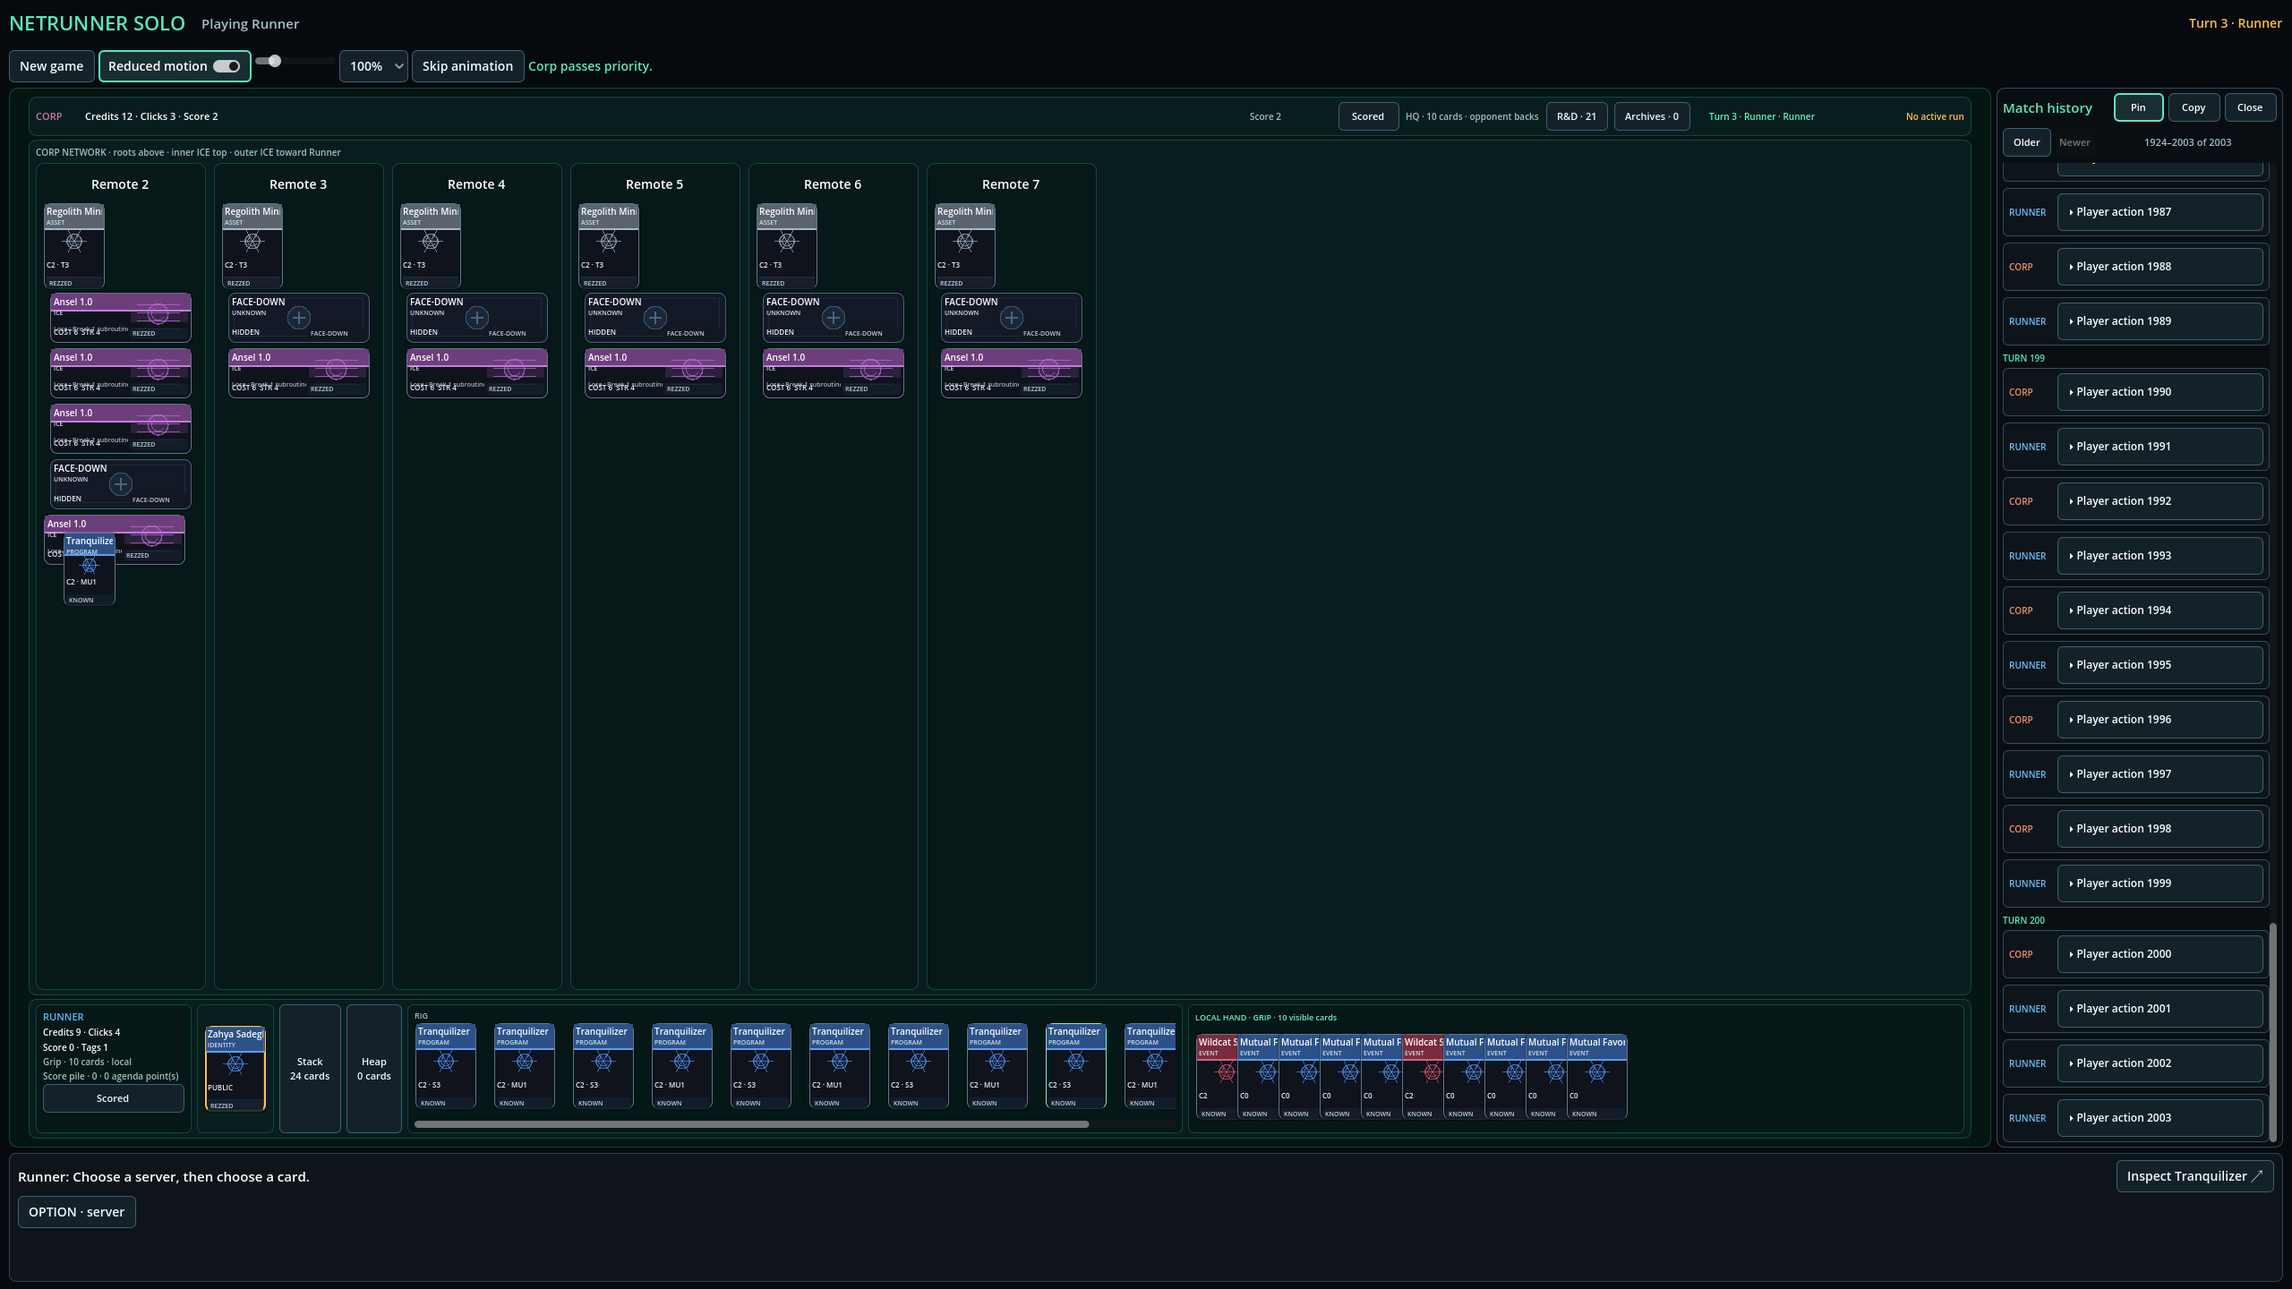
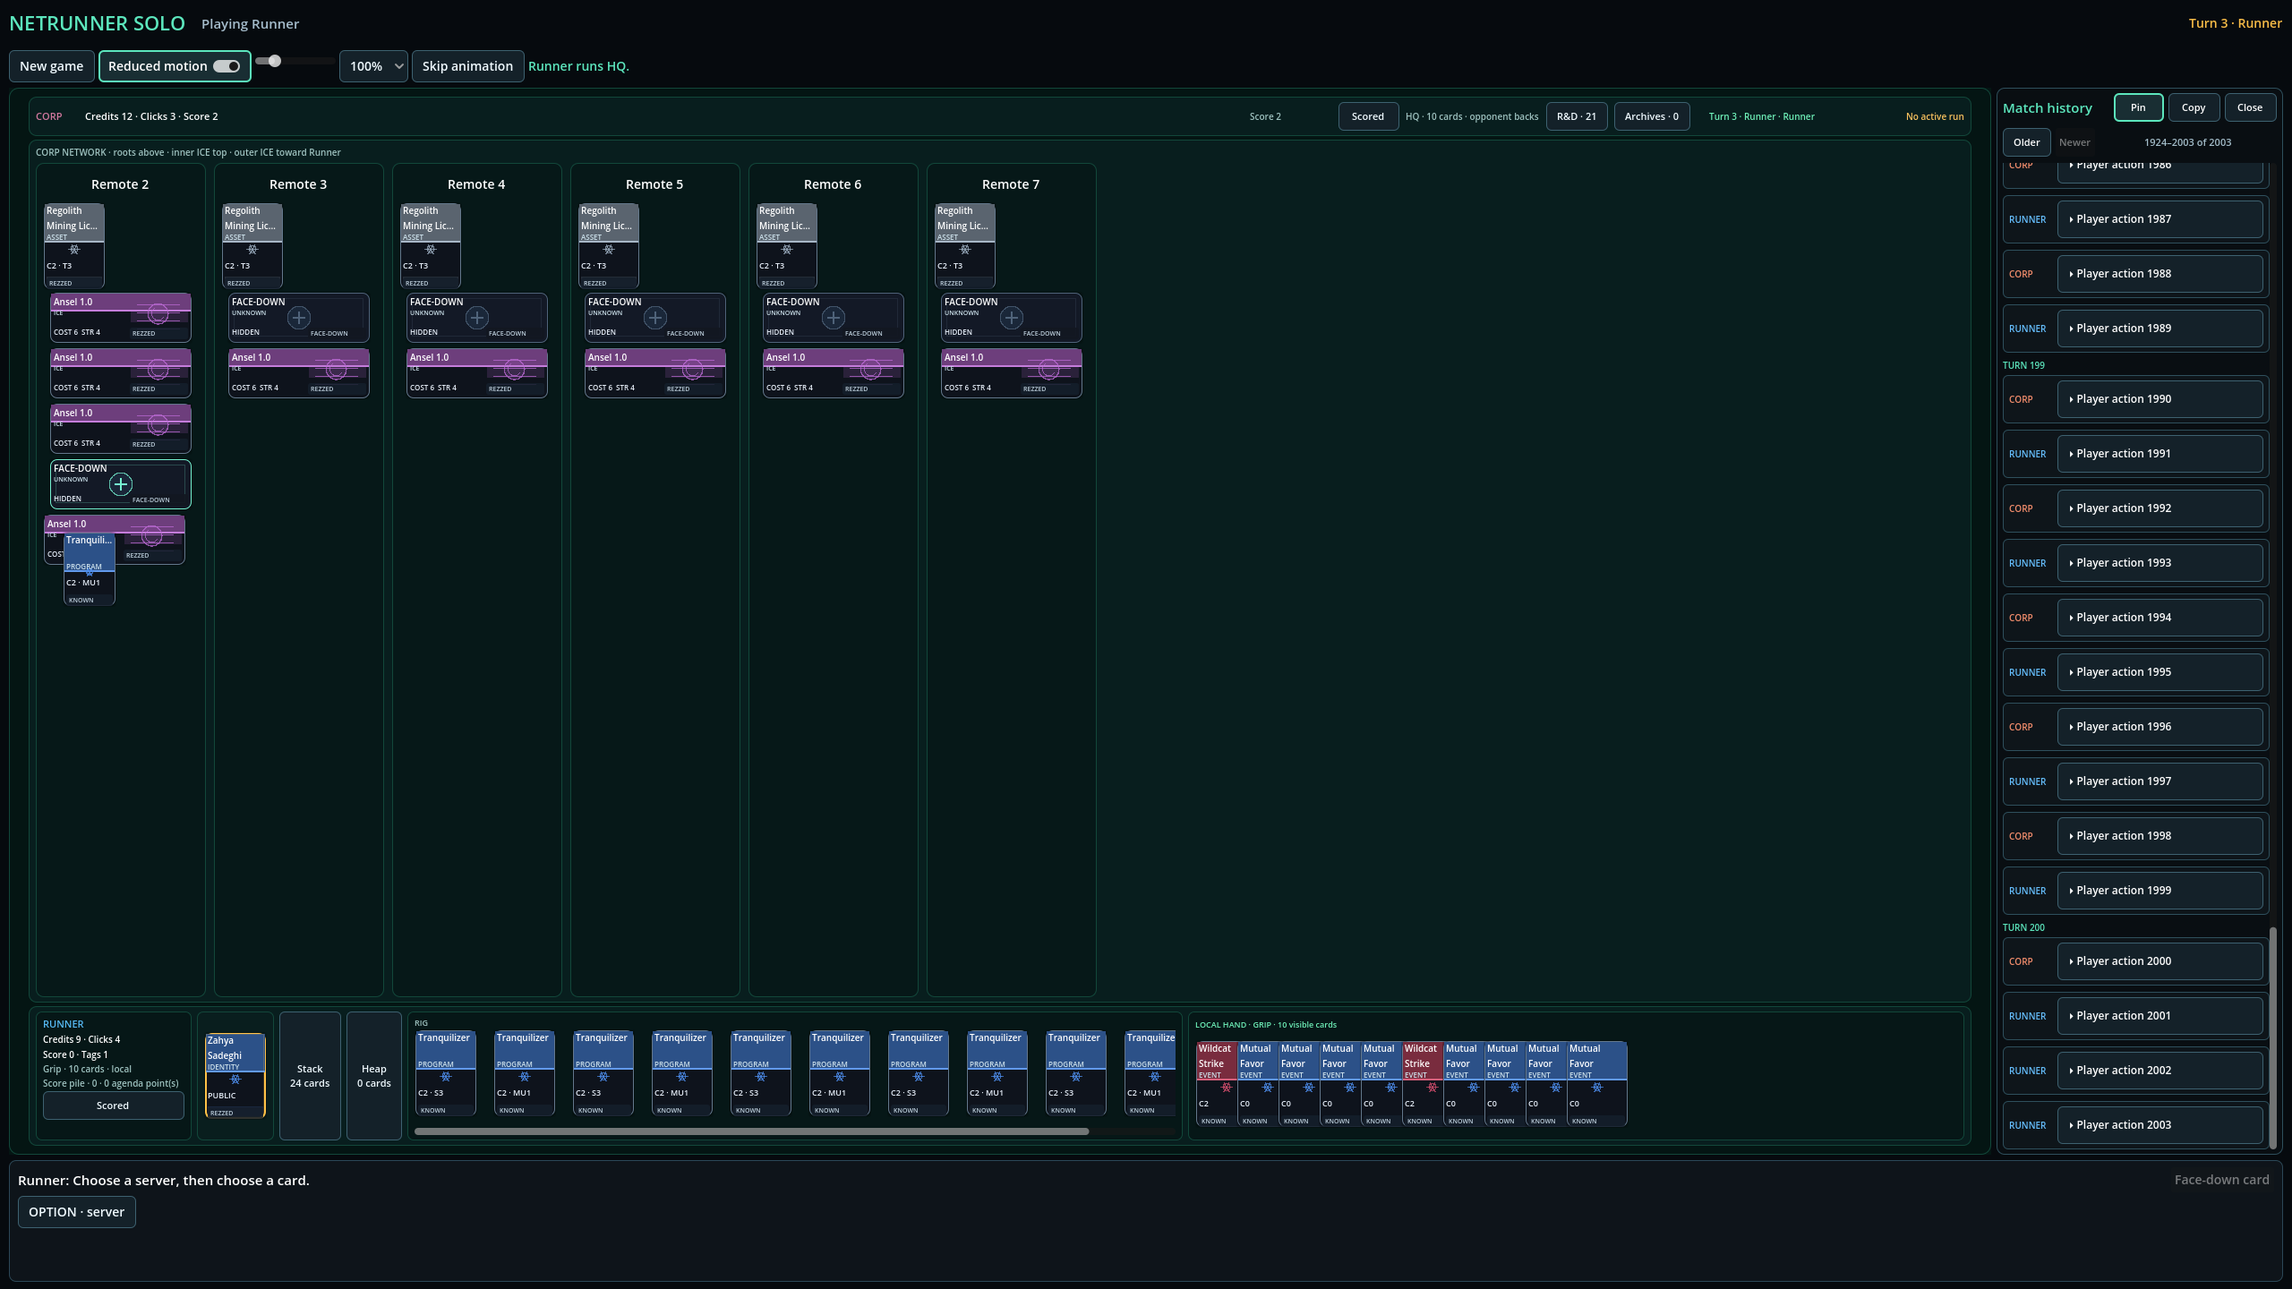
fix: preserve complete contextual actions and concealed inspection

diff --git a/src/Netrunner.Godot/scenes/TableCardControl.cs b/src/Netrunner.Godot/scenes/TableCardControl.cs
@@ -210,7 +210,7 @@ public partial class TableCardControl : Control
 
 		float headerHeight = _isIce
 			? Mathf.Min(22, cardSize.Y * 0.34f)
-			: Mathf.Min(29, cardSize.Y * 0.30f);
+			: IsCompactPortrait ? 43 : Mathf.Min(29, cardSize.Y * 0.30f);
 		DrawRect(new Rect2(2, 2, cardSize.X - 4, headerHeight), accent.Darkened(0.42f));
 		DrawRect(
 			new Rect2(2, 2 + headerHeight - 2, cardSize.X - 4, 2),
@@ -225,9 +225,9 @@ public partial class TableCardControl : Control
 			: IsCompactPortrait
 				? new Rect2(
 					6,
-					cardSize.Y * 0.31f,
+					cardSize.Y * 0.47f,
 					Mathf.Max(1, cardSize.X - 12),
-					Mathf.Max(1, cardSize.Y * 0.27f))
+					Mathf.Max(1, cardSize.Y * 0.13f))
 				: new Rect2(8, 39, Mathf.Max(1, cardSize.X - 16), 55);
 		if (_artwork is not null)
 		{
@@ -289,9 +289,9 @@ public partial class TableCardControl : Control
 			float width = Mathf.Max(1, _displaySize.X - 8);
 			float statusY = Mathf.Max(0, _displaySize.Y - 14);
 			float statsY = Mathf.Max(0, _displaySize.Y - 34);
-			SetLabelRect(_title, new Rect2(4, 3, width, 14), 10, Colors.White);
-			SetLabelRect(_type, new Rect2(4, 17, width, 11), 7, new Color(0.80f, 0.88f, 0.92f));
-			SetLabelRect(_stats, new Rect2(4, statsY, width, 10), 8, new Color(0.91f, 0.94f, 0.98f));
+			SetLabelRect(_title, new Rect2(4, 2, width, 31), 10, Colors.White);
+			SetLabelRect(_type, new Rect2(4, 33, width, 10), 8, new Color(0.80f, 0.88f, 0.92f));
+			SetLabelRect(_stats, new Rect2(4, statsY, width, 11), 9, new Color(0.91f, 0.94f, 0.98f));
 			SetLabelRect(_rulesCue, new Rect2(4, 0, width, 1), 7, new Color(0.66f, 0.73f, 0.79f));
 			SetLabelRect(_status, new Rect2(4, statusY, width, 10), 7, new Color(0.74f, 0.81f, 0.86f));
 			SetLabelRect(_counters, new Rect2(4, Mathf.Max(0, _displaySize.Y - 24), width, 10), 7, new Color(1.0f, 0.83f, 0.39f));
@@ -319,7 +319,11 @@ public partial class TableCardControl : Control
 
 		bool known = _card?.IsKnown == true;
 		bool compact = IsCompactPortrait;
-		_title.Text = known ? _card!.Title : "FACE-DOWN";
+		_title.Text = known ? compact ? CompactTitle(_card!.Title) : _card!.Title : "FACE-DOWN";
+		_title.AutowrapMode = TextServer.AutowrapMode.Off;
+		_title.VerticalAlignment = VerticalAlignment.Top;
+		_title.MaxLinesVisible = compact ? 2 : 1;
+		_title.TextOverrunBehavior = TextServer.OverrunBehavior.TrimEllipsis;
 		_type.Text = known ? FormatType(_card!, compact || _isIce) : "UNKNOWN";
 		_stats.Text = known ? FormatStats(_card!, compact) : "HIDDEN";
 		_rulesCue.Text = known
@@ -328,7 +332,7 @@ public partial class TableCardControl : Control
 		_status.Text = known ? FormatStatus(_card!, compact) : "FACE-DOWN";
 		_counters.Text = known ? FormatCounters(_card!, compact) : string.Empty;
 		_counters.Visible = _counters.Text.Length > 0;
-		_rulesCue.Visible = known && (_isIce || !compact);
+		_rulesCue.Visible = known && !_isIce && !compact;
 
 		var statusStyle = new StyleBoxFlat
 		{
@@ -365,6 +369,14 @@ public partial class TableCardControl : Control
 		TooltipText = known
 			? BuildTooltip(_card!)
 			: "Face-down card; identity is concealed.";
+	}
+
+	private static string CompactTitle(string title)
+	{
+		string name = title.Split(':')[0];
+		if (name.Length <= 11) return name;
+		int split = name.LastIndexOf(' ', Math.Min(11, name.Length - 1));
+		return split > 0 ? name[..split] + "\n" + name[(split + 1)..] : name;
 	}
 
 	private void RefreshArtwork()
@@ -404,6 +416,7 @@ public partial class TableCardControl : Control
 	private void HandleMouseEntered()
 	{
 		_hovered = true;
+		ZIndex = 10;
 		QueueRedraw();
 		EmitInspection();
 	}
@@ -411,26 +424,26 @@ public partial class TableCardControl : Control
 	private void HandleMouseExited()
 	{
 		_hovered = false;
+		ZIndex = HasFocus() ? 10 : 0;
 		QueueRedraw();
 	}
 
 	private void HandleFocusEntered()
 	{
+		ZIndex = 10;
 		QueueRedraw();
 		EmitInspection();
 	}
 
 	private void HandleFocusExited()
 	{
+		ZIndex = _hovered ? 10 : 0;
 		QueueRedraw();
 	}
 
 	private void EmitInspection()
 	{
-		if (_card is not null && !string.IsNullOrWhiteSpace(_card.Id))
-		{
-			CardInspected?.Invoke(_card.Id);
-		}
+		CardInspected?.Invoke(_card is { IsKnown: true } ? _card.Id : string.Empty);
 	}
 
 	private Color ResolveAccent()

diff --git a/src/Netrunner.Godot/scenes/Main.CardTableSmoke.cs b/src/Netrunner.Godot/scenes/Main.CardTableSmoke.cs
@@ -56,7 +56,17 @@ public partial class Main
 				LegalActionViewModel eventPlay = _currentSnapshot!.View.LegalActions.First(action => action.Parameters is PlayCardParameters);
 				SelectTableCard(((PlayCardParameters)eventPlay.Parameters).CardId.Value);
 				if (!_tableActionButtons.ContainsKey(eventPlay.Id)) throw new InvalidOperationException("Selecting a hand event did not offer its issued play action.");
-				GD.Print("M49_CONTEXT PASS event_from_hand=true");
+				LegalActionViewModel basicRun = _currentSnapshot.View.LegalActions.First(action => action.Parameters is RunServerParameters);
+				string laneName = _gameTable.GetServerDisplayName(((RunServerParameters)basicRun.Parameters).ServerId.Value);
+				Button laneButton = FindDescendants<Button>(_gameTable).First(button => button.Text == laneName);
+				await ClickTableButton(laneButton);
+				if (!_tableActionButtons.TryGetValue(basicRun.Id, out Button? runButton))
+					throw new InvalidOperationException("Selecting a server did not offer its issued run action.");
+				await ClickTableButton(runButton);
+				await _coordinator.GetObservationAsync(PlayerSide.Runner);
+				await TableFrames(3);
+				if (_currentSnapshot.View.Run is null) throw new InvalidOperationException("Contextual run action did not start its run.");
+				GD.Print("M49_CONTEXT PASS event_from_hand=true run_from_server=true");
 				_coordinator!.SnapshotPublished -= QueueSnapshot;
 				_coordinator.Dispose();
 				_coordinator = null;
@@ -79,6 +89,10 @@ public partial class Main
 				"Choose server", new BehaviorChoiceParameters("table-choice", "server"));
 			MatchViewModel fixture = CreateSlice48View(hand, servers, rig, decision, [option], null,
 				new OutcomeViewModel(GameOutcomeKind.Ongoing, null, null));
+			DecisionViewModel toyDecision = decision with { Kind = DecisionKind.ToyTurn };
+			LegalActionViewModel toyAction = new(new ActionId("table-toy-action"), ActionKind.GainCredit, "Gain credit", new NoActionParameters());
+			RenderSnapshot(CreateSlice48Snapshot(fixture with { Decision = toyDecision, LegalActions = [toyAction] }, toyDecision));
+			if (!_tableActionButtons.ContainsKey(toyAction.Id)) throw new InvalidOperationException("Ungrouped issued action was omitted from the table dock.");
 			var history = Enumerable.Range(1, 2000).Select(i => new MatchHistoryEntry($"stress-{i}", i, i / 10,
 				i % 2 == 0 ? PlayerSide.Corp : PlayerSide.Runner, $"Player action {i}", ["Retained detail."])).ToArray();
 			_matchHistory.ClearHistory();
@@ -162,6 +176,11 @@ public partial class Main
 						throw new InvalidOperationException($"Dense overflow fixture lost cards: hand={handControls.Length}, rig={rigControls.Length}.");
 					await AssertOverflowFocus(handControls, "local hand");
 					await AssertOverflowFocus(rigControls, "runner rig");
+					TableCardControl hidden = _gameTable.VisibleCards.Values.First(control => control.Card is null);
+					hidden.GrabFocus();
+					await TableFrames(2);
+					if (_inspectedCard is not null || !_tableInspect.Disabled)
+						throw new InvalidOperationException("Concealed focus retained a previous known-card inspector.");
 					_inspectedCard = card.Card;
 					ShowInspectedCardZoom();
 					await TableFrames(1);

diff --git a/src/Netrunner.Godot/scenes/Main.CardTable.cs b/src/Netrunner.Godot/scenes/Main.CardTable.cs
@@ -186,7 +186,7 @@ public partial class Main
 			_tablePrompt.Text = $"Run on {_gameTable.GetServerDisplayName(run.AttackedServerId)} · {run.Step} · " + _tablePrompt.Text;
 		_gameTable.SetTargets(new HashSet<string>(StringComparer.Ordinal));
 		if (decision is null || snapshot.IsOpponentThinking || snapshot.IsTerminal) return;
-		IReadOnlyList<LegalActionViewModel> all = ActionsRegionPresenter.Present(snapshot).DisplayActions;
+		IReadOnlyList<LegalActionViewModel> all = ActionsRegionPresenter.Present(snapshot).Actions;
 		_gameTable.SetTargets(all.Select(a => TableActionCardId(a.Parameters))
 			.OfType<string>().ToHashSet(StringComparer.Ordinal));
 		if (_stagedAction is { } staged && _stagedDecision is { } stagedDecision)
@@ -203,7 +203,7 @@ public partial class Main
 			displayed = all.Where(a => _tableSelectedCard is not null
 				? TableActionCardId(a.Parameters) == _tableSelectedCard
 				: _tableSelectedServer is not null
-					? ActionsRegionPresenter.GetTargetServerId(a.Parameters) == _tableSelectedServer
+					? TableActionServerId(a.Parameters) == _tableSelectedServer
 					: a.Kind is ActionKind.GainCredit or ActionKind.DrawCard or ActionKind.PassPriority
 						or ActionKind.EndTurn or ActionKind.RemoveTag or ActionKind.PurgeVirusCounters);
 			AddButton(_tableSelectedCard is null && _tableSelectedServer is null ? "Choose a card / server" : "Clear selection", () =>
@@ -236,6 +236,14 @@ public partial class Main
 			return button;
 		}
 	}
+
+	private static string? TableActionServerId(ActionParameters parameters) => parameters switch
+	{
+		RunServerParameters run => run.ServerId.Value,
+		InstallCardParameters install => install.ServerId?.Value,
+		PlayCardParameters play => play.TargetServerId?.Value,
+		_ => ActionsRegionPresenter.GetTargetServerId(parameters),
+	};
 
 	private static string? TableActionCardId(ActionParameters parameters) => parameters switch
 	{

diff --git a/src/Netrunner.Godot/scenes/GameTableControl.cs b/src/Netrunner.Godot/scenes/GameTableControl.cs
@@ -1301,20 +1301,7 @@ public partial class GameTableControl : Control
 		CardSelected?.Invoke(cardId);
 	}
 
-	private void HandleCardInspected(string cardId)
-	{
-		// A concealed projection may still carry an internal presentation handle;
-		// never pass that handle to a zoom/history consumer as if it were a
-		// visible identity. Empty means “clear the prior public inspection”.
-		if (!_visibleCards.TryGetValue(cardId, out TableCardControl? control)
-			|| control.Card is not { IsKnown: true })
-		{
-			CardInspected?.Invoke(string.Empty);
-			return;
-		}
-
-		CardInspected?.Invoke(cardId);
-	}
+	private void HandleCardInspected(string cardId) => CardInspected?.Invoke(cardId);
 
 	private static void ClearNonCardChildren(Node parent)
 	{

diff --git a/docs/M4_9_UI_PROGRESS.md b/docs/M4_9_UI_PROGRESS.md
@@ -2,13 +2,14 @@
 
 Date: 5 September 2026
 
-Status: implementation and automated verification in progress. The card table
-is the default match UI. **The required player usability review is pending;
+Status: UI-490 through UI-494 implemented; local M4 regression gate passed.
+The card table is the default match UI. UI-495 awaits player acceptance. **The required player usability review is pending;
 M5 is not cleared by automated games or these screenshots.**
 
 Plan: [M4.9 UI plan](M4_9_UI_PLAN.md).
 Implementation branch: `feat/m4-9-card-table`.
-First implementation checkpoint: `9f946b7`.
+Implementation checkpoints: `9f946b7`, `7e527de`.
+Draft PR: [#15](https://github.com/Master-Yoba/netrunner/pull/15).
 
 ## Implemented behavior
 
@@ -33,6 +34,7 @@ First implementation checkpoint: `9f946b7`.
   Public card faces open inspection; concealed piles remain count-only.
 - A compact right-edge history rail expands to readable chronological history,
   with turn separators, details, frozen known-card inspection and copy/export.
+  Pinning reserves a separate column on large windows; 720p keeps an overlay.
   Older-page reading survives new entries and shows an unread count. All
   in-session entries are retained; only 80 groups are rendered per page.
 - Accepted publications are presented in order. Movement, reduced-motion
@@ -61,7 +63,8 @@ composition, publication playback and routing of engine-issued IDs.
 Architect review corrected compact-card sizing, hidden-card inspection reset,
 server selection, run-fingerprint refresh, stale targets, publication settlement,
 movement cancellation, transient-zone history handling, automatic rez attribution,
-and private-movement identity retirement. The full-game identity assertion was
+private-movement identity retirement, complete source/server action mapping,
+and the ungrouped issued-action fallback. The full-game identity assertion was
 adapted to the rendered table cards instead of obsolete diagnostic labels.
 
 The Nico opening is unchanged: seed `47042`, basic decks, both hands kept,
@@ -70,6 +73,12 @@ Nico, then replaces it with a concealed installation. History explains both
 outgoing Nico cards going to Archives without naming the final hidden card.
 Opponent policy remains M5 work.
 
+The only Core change is additive public Runner `usedMemory`/`memoryLimit`
+observation fields when RulesState exists, using the engine's existing static
+modifier projection. Match maps them as nullable values and Godot displays them.
+Legacy M1 observation shape, serialized state and gameplay remain unchanged.
+Focused tests cover legacy omission, initial 0/4, and an active modifier.
+
 ## Verification record
 
 - Focused Match history tests cover 2,000-entry retention and deduplication,
@@ -77,7 +86,8 @@ Opponent policy remains M5 work.
   and discards, reveal/private movement, same-action knowledge retirement,
   automatic Corp rez attribution, missing transient zones, public shuffle and
   discard/trash details, and scrubbed historical handles.
-- `--m4-9-ui-smoke` uses real mouse input for the official Nico opening. Dense
+- `--m4-9-ui-smoke` uses real mouse input for the official Nico opening and
+  starts an actual run through server selection and its contextual Run button. Dense
   fixtures cover six remotes, five ICE, ten hand cards, twelve Runner cards,
   hosted cards, long history, both seats and both target resolutions. It checks
   card/dock bounds, stable nodes, keyboard overflow, inspection, history paging,
@@ -85,14 +95,25 @@ Opponent policy remains M5 work.
 - Native OpenGL review was performed on Apple M5, Godot 4.7.2 .NET, at
   1280×720 and 2560×1440. Earlier rejected screenshots exposed clipped hand
   content; the strengthened smoke now asserts actual hand and rig visibility.
-- A 120-frame native dense-board/history sample measured median 2.79 ms and
-  p95 2.89 ms on Apple M5. This is an idle presentation sample, not a claim
+- A 120-frame native dense-board/history sample measured median 8.25 ms and
+  p95 11.13 ms on Apple M5. This is an idle presentation sample, not a claim
   about every animation or a completed manual gameplay performance session.
-- The complete M4 gate and synthetic CI results will be recorded below after
-  the final implementation revision passes.
+- Final local `make m4-gate` passed on implementation checkpoint `7e527de`:
+  1,362 solution tests (798 Core, 314 Cards, 59 AI, 68 CLI, 123 Match), official
+  supplemental checks, formatting, proofs, native/headless UI checks, secret
+  scanning and 77/77 coverage. Subsequent concealed-focus, compact-title and complete contextual-routing
+  corrections are covered by the refreshed native smoke and PR CI.
+- The four official games all completed through table controls, restarted, and
+  returned to fresh setup: Corp/basic 928 actions, Runner/basic 1,715,
+  Corp/expanded 1,094, Runner/expanded 964; all use seed `47042`.
+- [PR checks](https://github.com/Master-Yoba/netrunner/pull/15/checks) run the
+  complete synthetic `make verify` and official `make m4-gate` lanes on Linux.
+  Both lanes passed checkpoint `7e527de`; the live checks are the authoritative
+  result for the PR's current revision.
 
 ## Visual evidence
 
+- [Native check output](evidence/m4-9/native-ui-smoke.txt)
 - [User reference](evidence/m4-9/reference/chiriboga.png)
 - [Nico opening table](evidence/m4-9/nico-table.png)
 - [Nico history](evidence/m4-9/nico-history.png)
@@ -102,6 +123,7 @@ Opponent policy remains M5 work.
 - [Dense Corp table, 1440p](evidence/m4-9/dense-corp-2560.png)
 - [Encounter presentation](evidence/m4-9/active-run-runner-1280.png)
 - [Expanded history](evidence/m4-9/history-runner-1280.png)
+- [Archives browser](evidence/m4-9/archives-browser-1280.png)
 - [Outcome presentation](evidence/m4-9/outcome-runner-1280.png)
 
 These are native screenshots of scripted real-game/fixture sessions. They are
